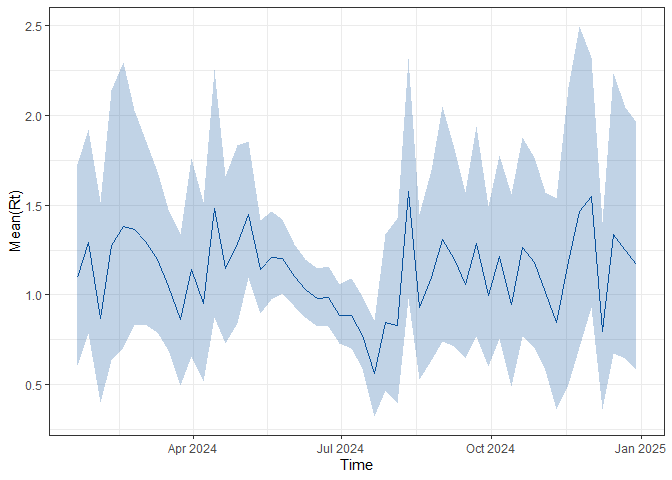
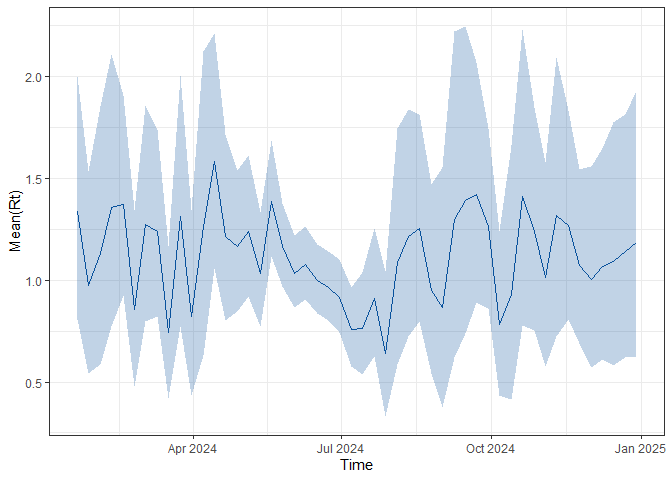
rebuild readme.md with devtools::build_readme()

diff --git a/README.md b/README.md
@@ -96,16 +96,16 @@ head(vri_data_list)
 #> # A tibble: 366 × 2
 #>    date       confirm
 #>    <date>       <dbl>
-#>  1 2024-01-07       0
-#>  2 2024-01-08       0
-#>  3 2024-01-09       5
-#>  4 2024-01-10       0
+#>  1 2024-01-07       1
+#>  2 2024-01-08       5
+#>  3 2024-01-09       0
+#>  4 2024-01-10       6
 #>  5 2024-01-11       0
-#>  6 2024-01-12       0
-#>  7 2024-01-13       4
+#>  6 2024-01-12       6
+#>  7 2024-01-13       0
 #>  8 2024-01-14       0
 #>  9 2024-01-15       0
-#> 10 2024-01-16       9
+#> 10 2024-01-16      14
 #> # ℹ 356 more rows
 #> 
 #> $rsv
@@ -113,31 +113,31 @@ head(vri_data_list)
 #>    date       confirm
 #>    <date>       <dbl>
 #>  1 2024-01-07       0
-#>  2 2024-01-08       0
-#>  3 2024-01-09       7
-#>  4 2024-01-10       0
+#>  2 2024-01-08       8
+#>  3 2024-01-09      11
+#>  4 2024-01-10       6
 #>  5 2024-01-11       0
-#>  6 2024-01-12       4
-#>  7 2024-01-13       1
-#>  8 2024-01-14       7
-#>  9 2024-01-15       0
-#> 10 2024-01-16       3
+#>  6 2024-01-12       0
+#>  7 2024-01-13       0
+#>  8 2024-01-14       0
+#>  9 2024-01-15       6
+#> 10 2024-01-16       7
 #> # ℹ 356 more rows
 #> 
 #> $sars_cov2
 #> # A tibble: 366 × 2
 #>    date       confirm
 #>    <date>       <dbl>
-#>  1 2024-01-07       1
-#>  2 2024-01-08       1
-#>  3 2024-01-09       3
-#>  4 2024-01-10       1
+#>  1 2024-01-07       3
+#>  2 2024-01-08       0
+#>  3 2024-01-09       7
+#>  4 2024-01-10       0
 #>  5 2024-01-11       8
-#>  6 2024-01-12       1
-#>  7 2024-01-13       2
+#>  6 2024-01-12       6
+#>  7 2024-01-13       0
 #>  8 2024-01-14       0
-#>  9 2024-01-15       0
-#> 10 2024-01-16       0
+#>  9 2024-01-15       5
+#> 10 2024-01-16       2
 #> # ℹ 356 more rows
 ```
 
@@ -243,7 +243,7 @@ output directory (`output_directory)` where the report will be saved.
 df <- imap_dfr(vri_data_list, ~ .x %>% mutate(disease_type = .y))
 write.csv(df, "simulated_data.csv", row.names = FALSE)
 generate_forecast_report(
-  input_data_dir = input_file, # input file
+  input_data_dir = "simulated_data.csv", # input filepath
   output_dir = output_directory, # output directory
   n_days = 14, # number of days to forecast
   validate_window_size = 7, # number of days between each validation window
